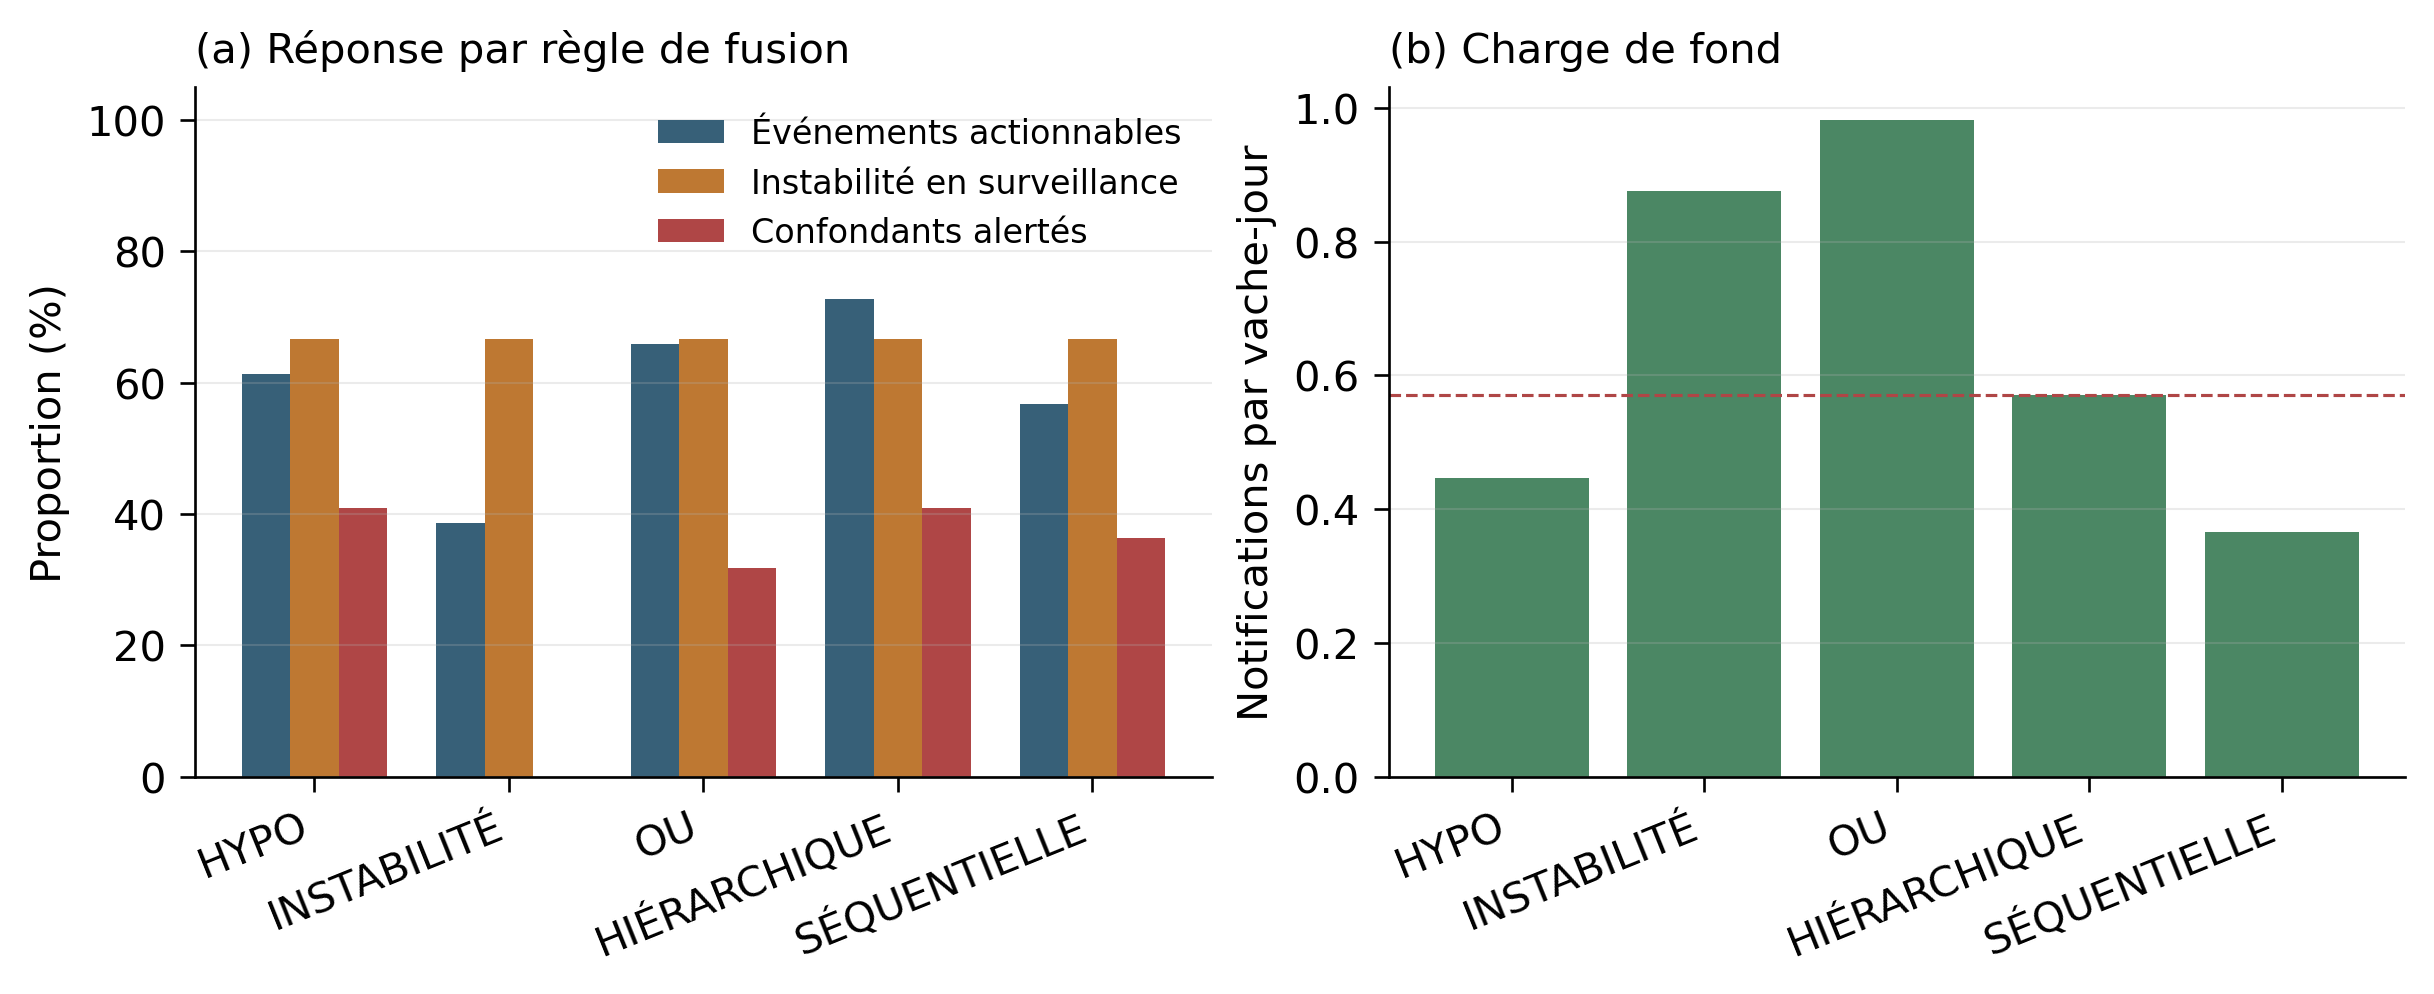
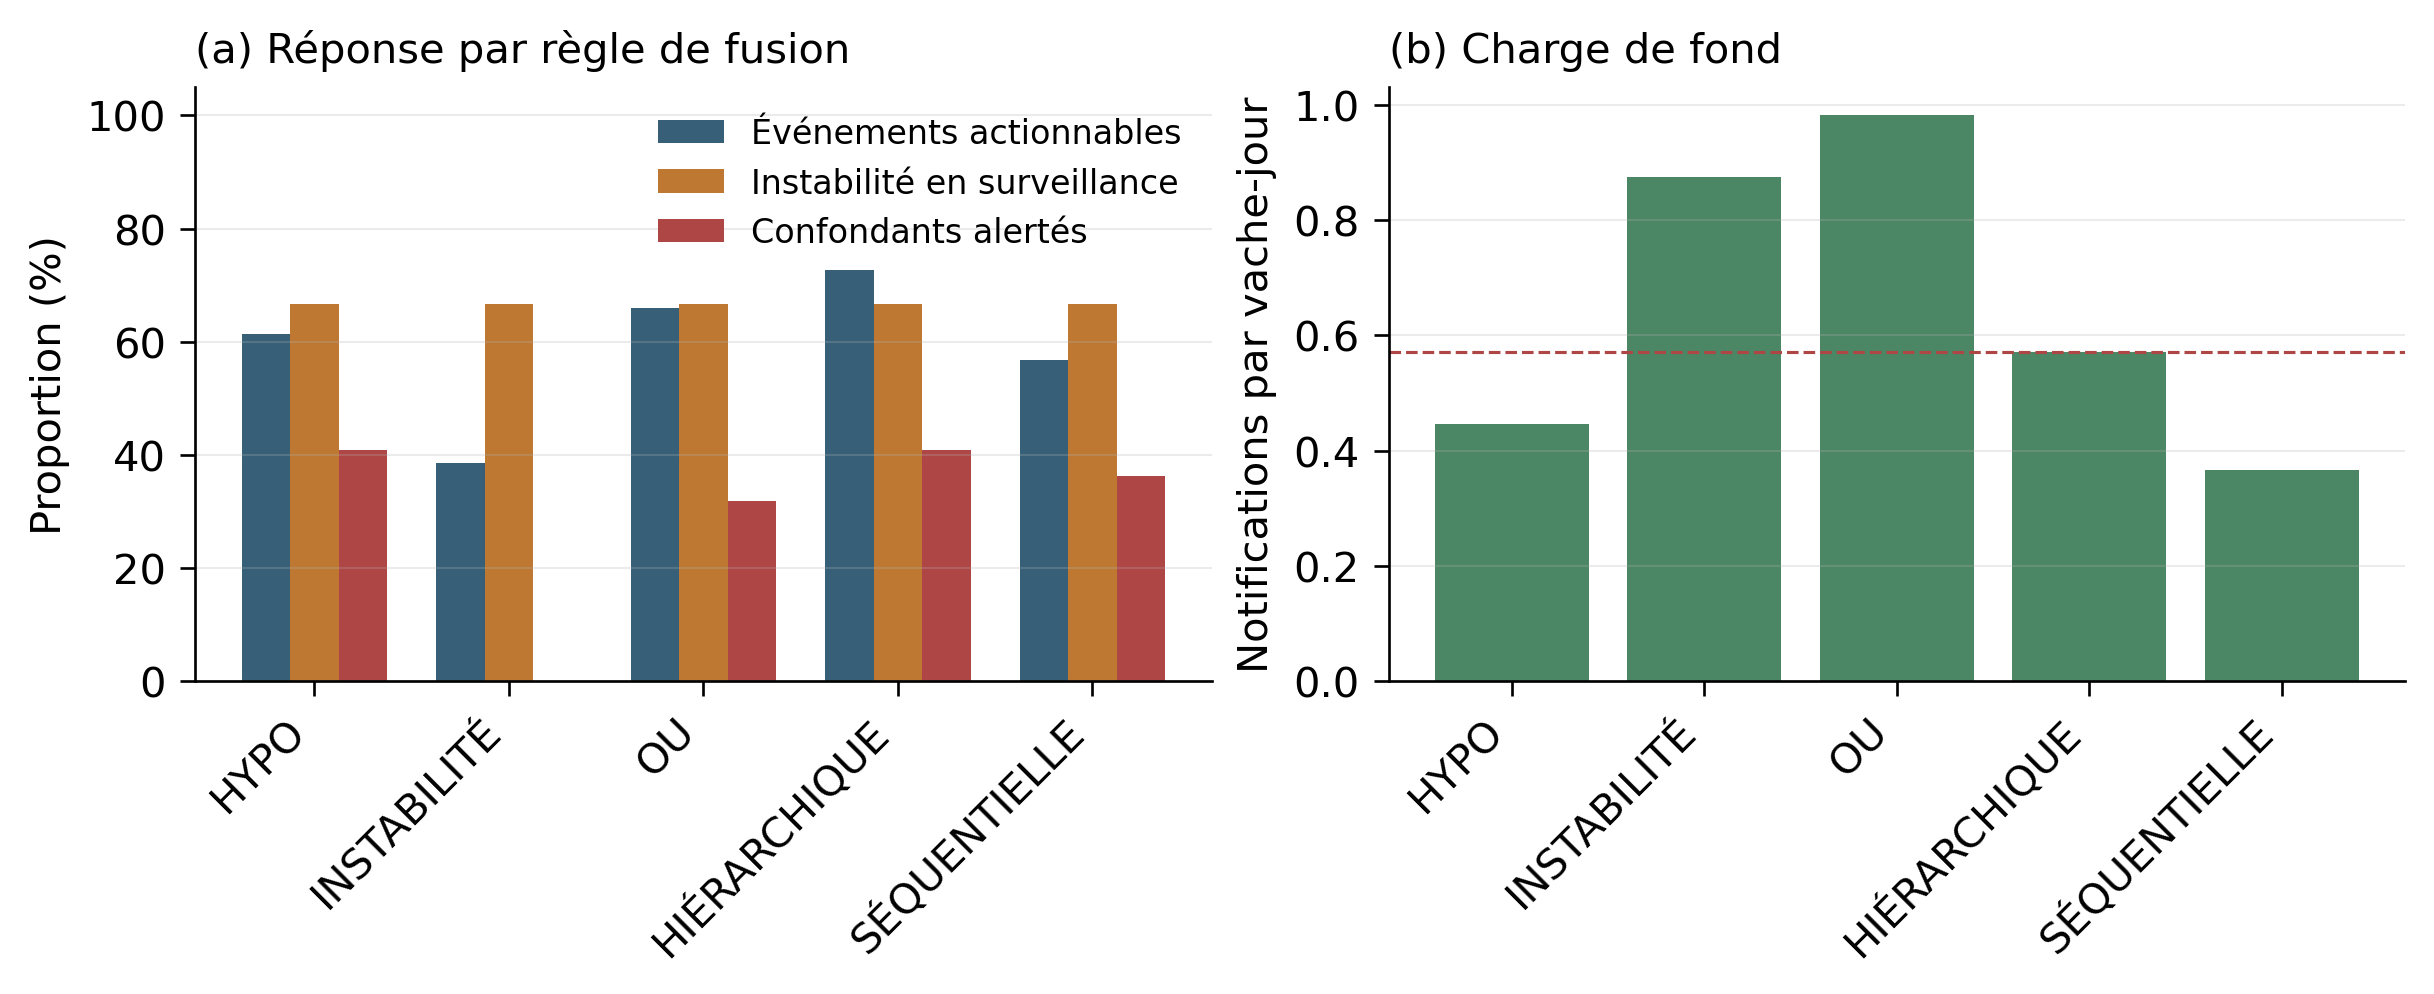
memoirev3: separer les etiquettes de la figure des regles de fusion
A 22 degres d'inclinaison, « INSTABILITE » chevauchait « HIERARCHIQUE » et
« SEQUENTIELLE » : cinq categories aux noms longs devaient tenir sur la
moitie de la largeur d'une figure deja reduite. L'inclinaison passe a 45
degres sur les deux panneaux, ce qui donne a chaque etiquette la place
qu'elle demande.

129 pages, aucun debordement, corps a 7,4 points et 405 points par pouce.

diff --git a/scripts/plot_manuscript_results.py b/scripts/plot_manuscript_results.py
@@ -90,7 +90,7 @@ def plot_fusion_comparison() -> None:
                 label="Confondants alertés", color="#af4646")
     axes[0].set_ylabel("Proportion (%)")
     axes[0].set_ylim(0, 105)
-    axes[0].set_xticks(x, labels, rotation=22, ha="right")
+    axes[0].set_xticks(x, labels, rotation=45, ha="right")
     axes[0].legend(frameon=False, fontsize=8)
     axes[0].grid(axis="y", alpha=0.25)
     axes[0].set_title("(a) Réponse par règle de fusion", loc="left", fontsize=10)
@@ -98,7 +98,7 @@ def plot_fusion_comparison() -> None:
     axes[1].bar(x, data["background_per_cow_day"], color="#4b8764")
     axes[1].set_ylabel("Notifications par vache-jour")
     axes[1].set_title("(b) Charge de fond", loc="left", fontsize=10)
-    axes[1].set_xticks(x, labels, rotation=22, ha="right")
+    axes[1].set_xticks(x, labels, rotation=45, ha="right")
     axes[1].grid(axis="y", alpha=0.25)
     axes[1].axhline(data.loc["hierarchical", "background_per_cow_day"], color="#af4646", linestyle="--", linewidth=0.75)
     _save(fig, "fusion_comparison")
